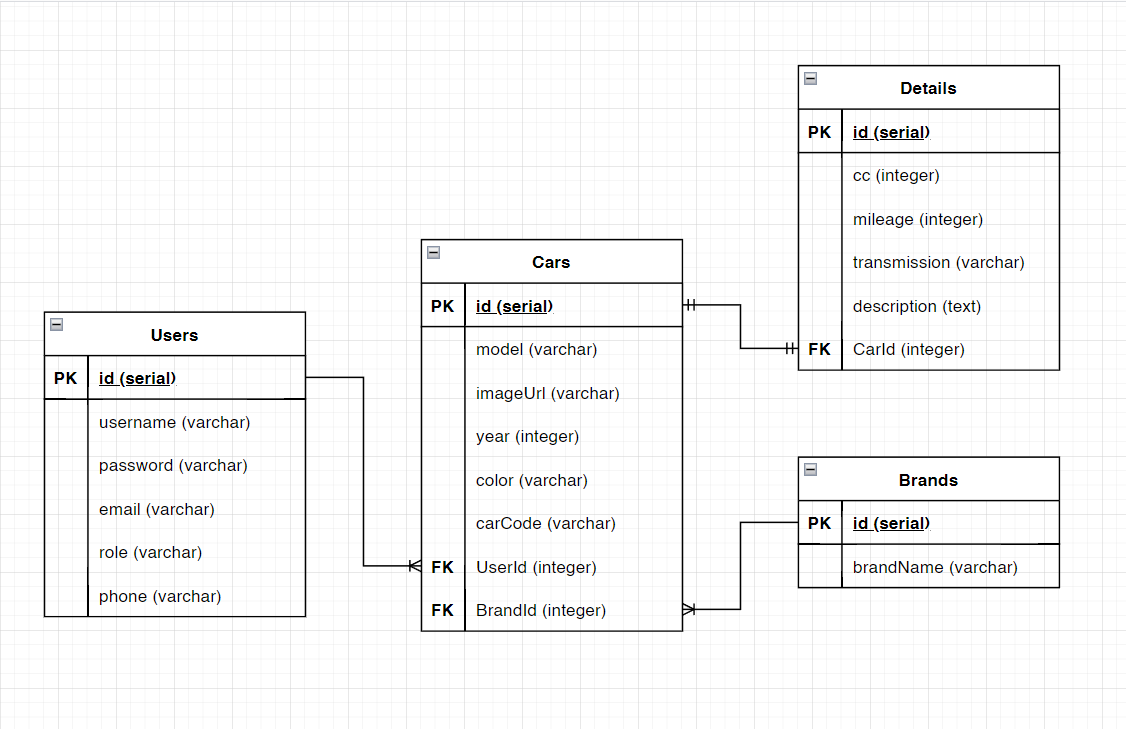
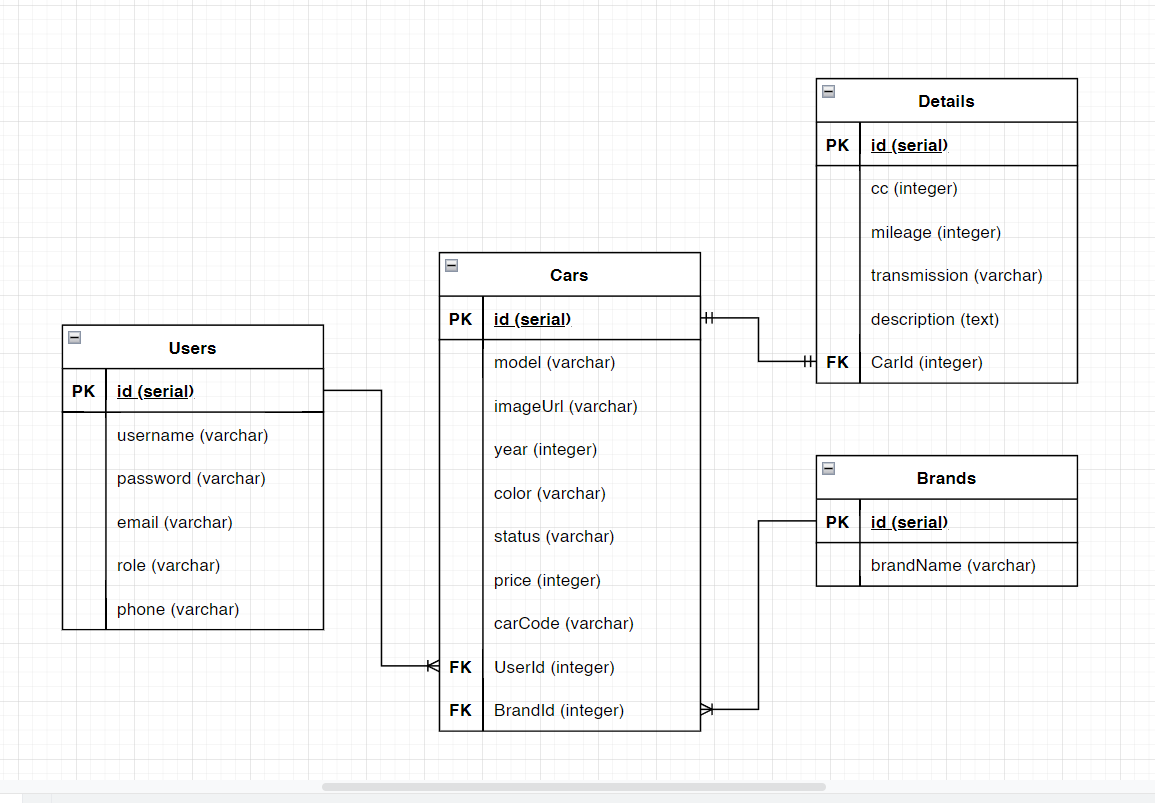
4th commit

diff --git a/migrations/20211216041307-add-price-to-cars.js b/migrations/20211216041307-add-price-to-cars.js
@@ -1,0 +1,25 @@
+'use strict';
+
+const { sequelize } = require("../models");
+
+module.exports = {
+  up: (queryInterface, Sequelize) => {
+    /**
+     * Add altering commands here.
+     *
+     * Example:
+     * await queryInterface.createTable('users', { id: Sequelize.INTEGER });
+     */
+    return queryInterface.addColumn('Cars', 'price', Sequelize.INTEGER)
+  },
+
+  down: (queryInterface, Sequelize) => {
+    /**
+     * Add reverting commands here.
+     *
+     * Example:
+     * await queryInterface.dropTable('users');
+     */
+     return queryInterface.removeColumn('Cars', 'price')
+  }
+};

diff --git a/migrations/20211216041332-add-status-to-cars.js b/migrations/20211216041332-add-status-to-cars.js
@@ -1,0 +1,23 @@
+'use strict';
+
+module.exports = {
+  up: async (queryInterface, Sequelize) => {
+    /**
+     * Add altering commands here.
+     *
+     * Example:
+     * await queryInterface.createTable('users', { id: Sequelize.INTEGER });
+     */
+     return queryInterface.addColumn('Cars', 'status', Sequelize.STRING)
+  },
+
+  down: async (queryInterface, Sequelize) => {
+    /**
+     * Add reverting commands here.
+     *
+     * Example:
+     * await queryInterface.dropTable('users');
+     */
+     return queryInterface.removeColumn('Cars', 'status')
+  }
+};

diff --git a/routes/sellerRouter.js b/routes/sellerRouter.js
@@ -1,8 +1,9 @@
 const express = require('express')
 const sellerRouter = express.Router()
-const Controller = require('../controllers/sellerController.js')
+const Controller = require('../controllers/sellerController')
 
-sellerRouter.get('/', (req, res) => {res.send('seller home')})
+sellerRouter.get('/', Controller.carList)
 
+// sellerRouter.get('/', (req, res) => {res.send('seller home')})
 
 module.exports = sellerRouter;

diff --git a/controllers/sellerController.js b/controllers/sellerController.js
@@ -1,1 +1,20 @@
-// init commit
+const { Car, Detail, User } = require('../models')
+
+class sellerController {
+
+  static carList(req, res) {
+    Car.findAll({
+      include: [{
+        model: Detail
+      }]
+    })
+      .then(data => {
+        res.render('sellerCarList', {data})
+      })
+      .catch(err => {
+        res.send(err)
+      })
+  }
+}
+
+module.exports = sellerController;

diff --git a/controllers/buyerController.js b/controllers/buyerController.js
@@ -1,1 +1,7 @@
-// init commit
+
+
+class buyerController {
+
+}
+
+module.exports = buyerController;
